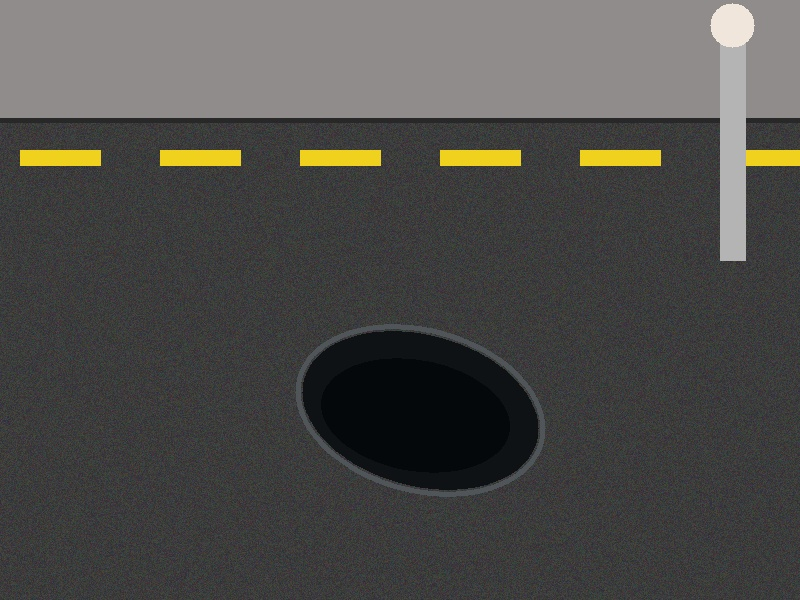
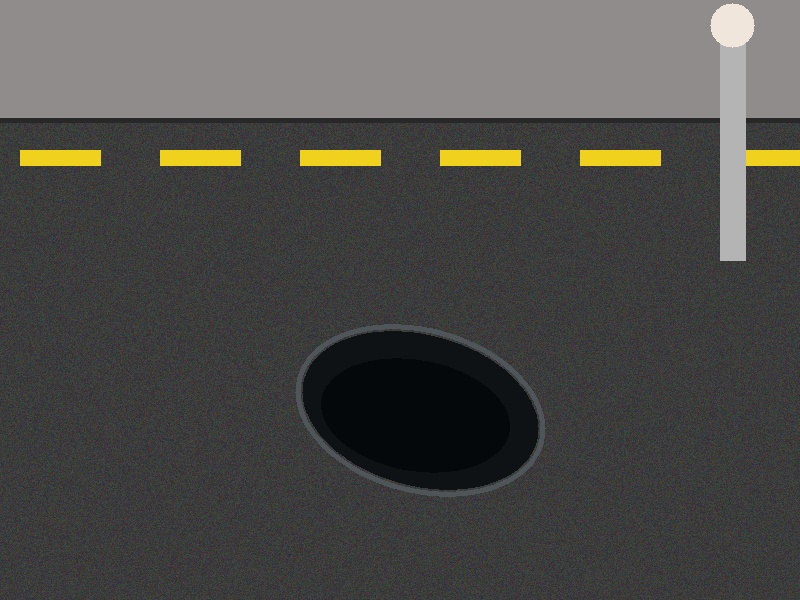
feat: animate map flyTo when a specific ward is selected in the municipal dashboard

diff --git a/frontend/src/components/CityMap.tsx b/frontend/src/components/CityMap.tsx
@@ -5,6 +5,7 @@ import 'leaflet/dist/leaflet.css';
 import { Map as MapIcon } from 'lucide-react';
 import type { PotholeCase } from '@/types';
 import { markerColor } from '@/utils/caseUtils';
+import { useApp } from '@/context/AppContext';
 
 // Fix for default Leaflet marker icons not loading in React
 import iconRetinaUrl from 'leaflet/dist/images/marker-icon-2x.png';
@@ -33,24 +34,34 @@ const legend = [
   { label: 'Resolved', color: '#2E9E6D' },
 ];
 
-function MapBounds({ cases }: { cases: PotholeCase[] }) {
+function MapBounds({ cases, selectedWardId }: { cases: PotholeCase[], selectedWardId?: string }) {
   const map = useMap();
+  const { wards } = useApp();
+
   useEffect(() => {
+    if (selectedWardId && selectedWardId !== 'all') {
+      const ward = wards.find((w: any) => w.id === selectedWardId);
+      if (ward && ward.center_lat && ward.center_lng) {
+        map.flyTo([ward.center_lat, ward.center_lng], 14, { animate: true, duration: 1.5 });
+        return;
+      }
+    }
     const validCases = cases.filter(c => c.coordinates.lat && c.coordinates.lng);
     if (validCases.length > 0) {
       const bounds = L.latLngBounds(validCases.map(c => [c.coordinates.lat!, c.coordinates.lng!]));
       map.fitBounds(bounds, { padding: [30, 30], maxZoom: 16 });
     }
-  }, [cases, map]);
+  }, [cases, map, selectedWardId, wards]);
   return null;
 }
 
 interface CityMapProps {
   cases: PotholeCase[];
   city: 'Mumbai' | 'Thane' | 'Navi Mumbai';
+  selectedWardId?: string;
 }
 
-export default function CityMap({ cases, city }: CityMapProps) {
+export default function CityMap({ cases, city, selectedWardId }: CityMapProps) {
   const validCases = cases.filter((c) => c.city === city && c.coordinates.lat && c.coordinates.lng);
 
   return (
@@ -80,7 +91,7 @@ export default function CityMap({ cases, city }: CityMapProps) {
             attribution='&copy; <a href="https://www.openstreetmap.org/copyright">OpenStreetMap</a> contributors'
             url="https://{s}.tile.openstreetmap.org/{z}/{x}/{y}.png"
           />
-          <MapBounds cases={validCases} />
+          <MapBounds cases={validCases} selectedWardId={selectedWardId} />
           {validCases.map((c) => (
             <Marker
               key={c.id}

diff --git a/frontend/src/pages/municipal/MunicipalDashboardView.tsx b/frontend/src/pages/municipal/MunicipalDashboardView.tsx
@@ -270,7 +270,7 @@ export const MunicipalDashboardView: React.FC<MunicipalDashboardViewProps> = ({
             </div>
 
             <div className="h-[360px] rounded-2xl overflow-hidden border border-[#E2E8F0] shadow-subtle bg-white z-0" style={{ zIndex: 0 }}>
-              <CityMap cases={filteredCases} city={mapCity} />
+              <CityMap cases={filteredCases} city={mapCity} selectedWardId={selectedWardId} />
             </div>
           </div>
 

diff --git a/backend/app/seed/demo_data.py b/backend/app/seed/demo_data.py
@@ -136,7 +136,7 @@ def seed_database(db: Session):
     db.flush()
 
     # 3. Wards
-        wards_data = [
+    wards_data = [
         {"name": "Ward A - Churchgate, Colaba, Fort", "code": "A", "city": "Mumbai", "lat": 18.922, "lng": 72.8347},
         {"name": "Ward B - Masjid Bunder, Dongri", "code": "B", "city": "Mumbai", "lat": 18.9515, "lng": 72.8375},
         {"name": "Ward C - Pydhonie, Bhuleshwar", "code": "C", "city": "Mumbai", "lat": 18.9525, "lng": 72.8273},
@@ -200,17 +200,6 @@ def seed_database(db: Session):
         (wards[26], "Ghodbunder Highway"),
         (wards[36], "Palm Beach Road"),
         (wards[34], "Nerul Station Road"),
-    ], "Gokhale Road North"),
-        (wards[0], "Ranade Road"),
-        (wards[1], "Hill Road"),
-        (wards[1], "Linking Road"),
-        (wards[2], "Sahar Road"),
-        (wards[2], "Andheri-Kurla Road"),
-        (wards[3], "LBS Marg"),
-        (wards[4], "Gokhale Road Thane"),
-        (wards[5], "Ghodbunder Highway"),
-        (wards[6], "Palm Beach Road"),
-        (wards[7], "Nerul Station Road"),
     ]
     roads = []
     for ward, road_name in roads_data:
